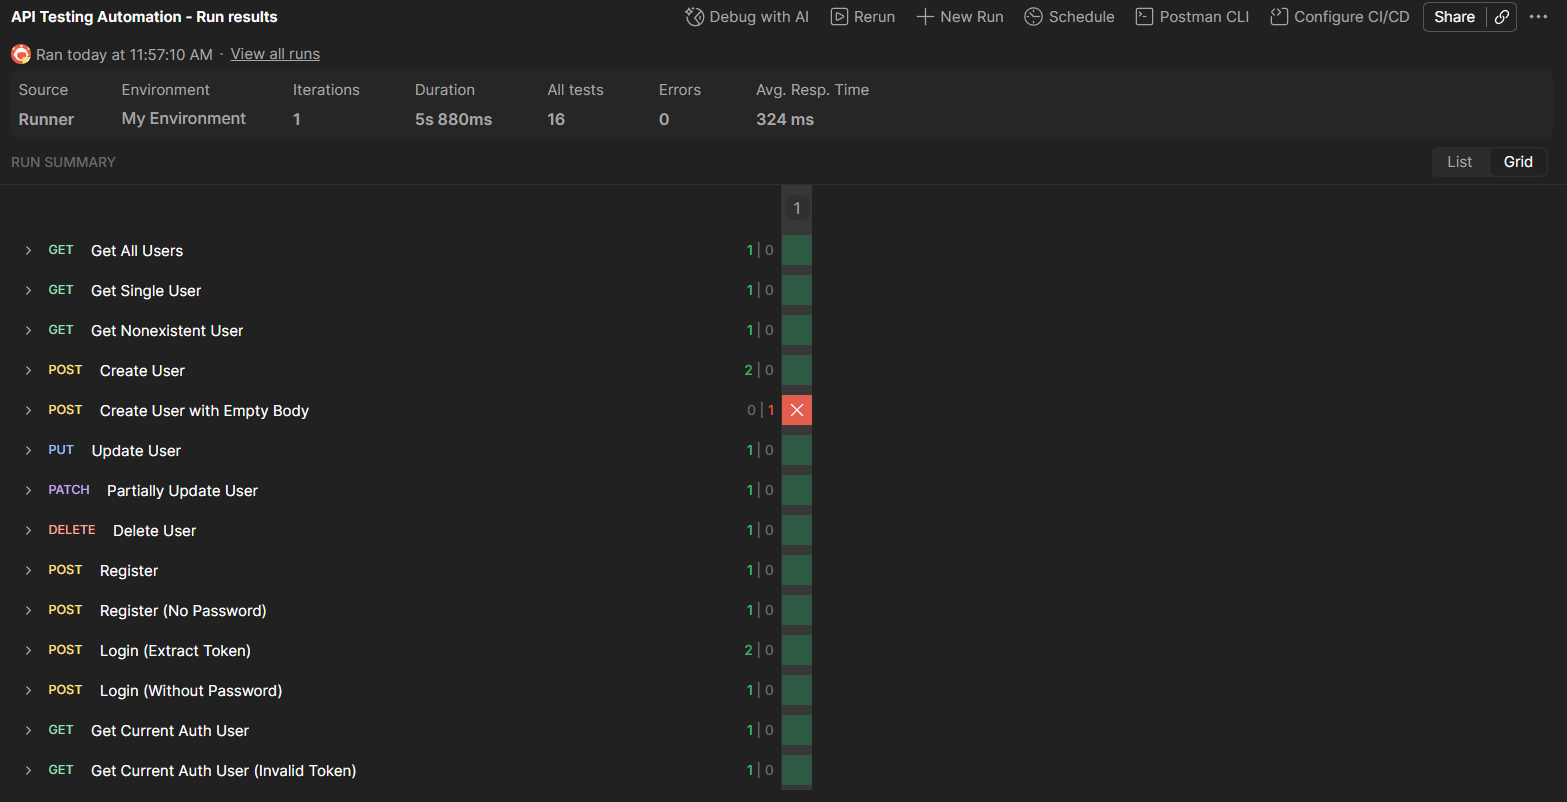
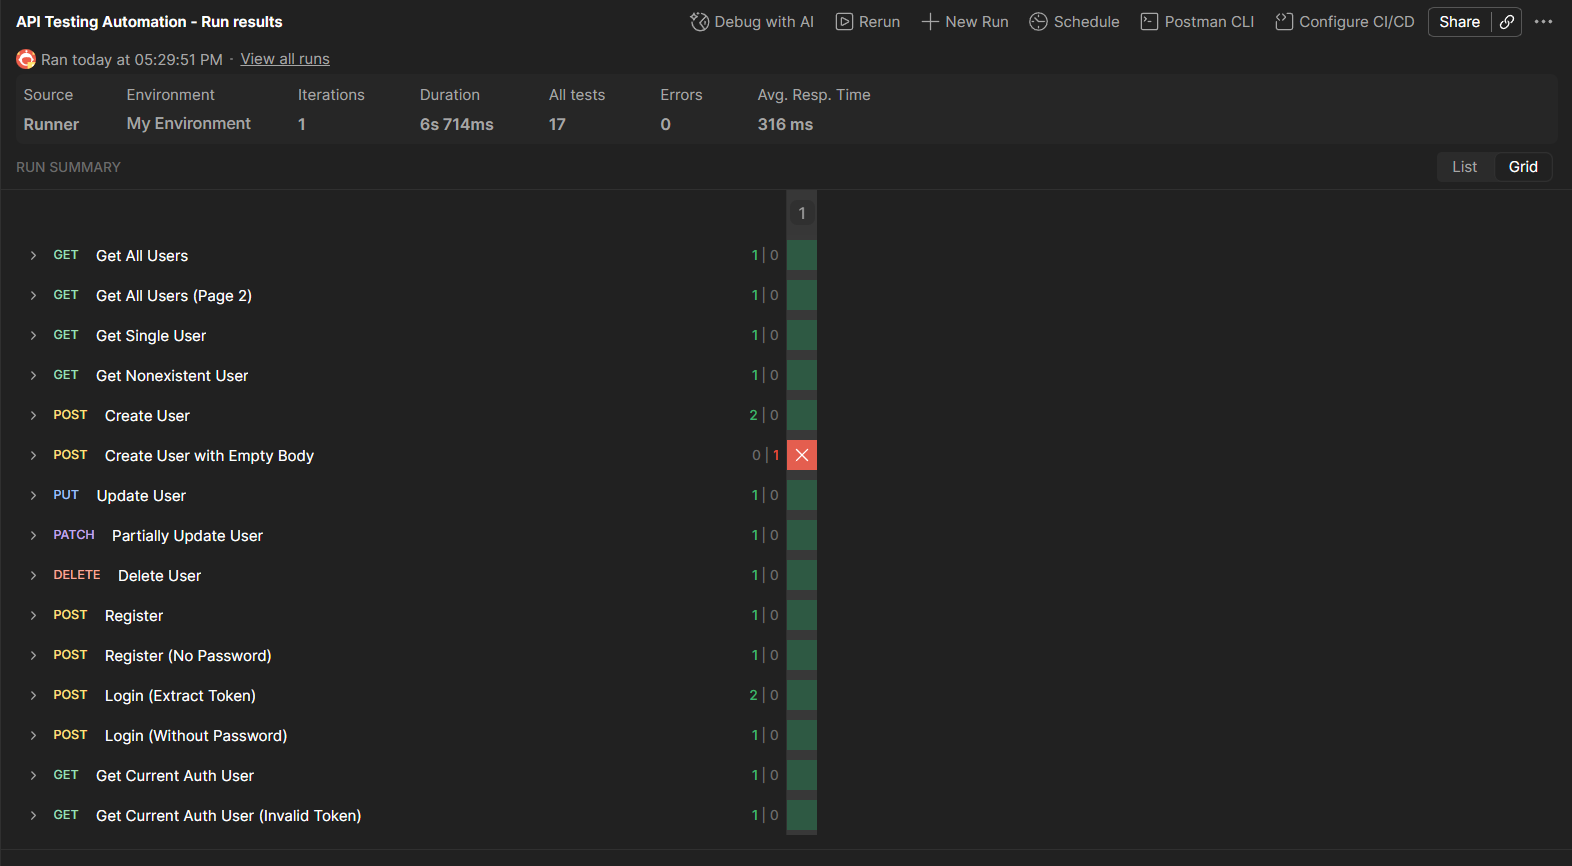
Add 1 test case

diff --git a/README.md b/README.md
@@ -28,20 +28,21 @@ This project demonstrates:
 
 | # | Request | Method | Endpoint | Service |
 | --- | --- | --- | --- | --- |
-| 1 | Get All Users (page 2) | GET | `/api/users?page=2` | ReqRes |
-| 2 | Get Single User | GET | `/api/users/2` | ReqRes |
-| 3 | Get Nonexistent User | GET | `/api/users/999` | ReqRes |
-| 4 | Create User | POST | `/api/users` | ReqRes |
-| 5 | Create User with Empty Body | POST | `/api/users` | ReqRes |
-| 6 | Update User | PUT | `/api/users/{{userId}}` | ReqRes |
-| 7 | Partially Update User | PATCH | `/api/users/{{userId}}` | ReqRes |
-| 8 | Delete User | DELETE | `/api/users/{{userId}}` | ReqRes |
-| 9 | Register | POST | `/api/register` | ReqRes |
-| 10 | Register Without Password | POST | `/api/register` | ReqRes |
-| 11 | Login and Extract Token | POST | `/auth/login` | DummyJSON |
-| 12 | Login Without Password | POST | `/auth/login` | DummyJSON |
-| 13 | Get Current Auth User | GET | `/auth/me` | DummyJSON |
-| 14 | Get Current Auth User with Invalid Token | GET | `/auth/me` | DummyJSON |
+| 1 | Get All Users | GET | `/api/users` | ReqRes |
+| 2 | Get All Users (page 2) | GET | `/api/users?page=2` | ReqRes |
+| 3 | Get Single User | GET | `/api/users/2` | ReqRes |
+| 4 | Get Nonexistent User | GET | `/api/users/999` | ReqRes |
+| 5 | Create User | POST | `/api/users` | ReqRes |
+| 6 | Create User with Empty Body | POST | `/api/users` | ReqRes |
+| 7 | Update User | PUT | `/api/users/{{userId}}` | ReqRes |
+| 8 | Partially Update User | PATCH | `/api/users/{{userId}}` | ReqRes |
+| 9 | Delete User | DELETE | `/api/users/{{userId}}` | ReqRes |
+| 10 | Register | POST | `/api/register` | ReqRes |
+| 11 | Register Without Password | POST | `/api/register` | ReqRes |
+| 12 | Login and Extract Token | POST | `/auth/login` | DummyJSON |
+| 13 | Login Without Password | POST | `/auth/login` | DummyJSON |
+| 14 | Get Current Auth User | GET | `/auth/me` | DummyJSON |
+| 15 | Get Current Auth User with Invalid Token | GET | `/auth/me` | DummyJSON |
 
 ## Setup and Execution
 
@@ -88,20 +89,20 @@ pm.environment.set("token", response.accessToken);
 
 ## Test Execution Results
 
-The recorded run executed **14 requests**, with **16 Postman assertions** overall.
+The recorded run executed **15 requests**, with **17 Postman assertions** overall.
 
 | Metric | Result |
 | --- | ---: |
-| API requests / documented test cases | 14 |
-| Requests with all assertions passing | 13 |
+| API requests / documented test cases | 15 |
+| Requests with all assertions passing | 14 |
 | Requests with a failing assertion | 1 |
-| Total assertions | 16 |
-| Passed assertions | 15 |
+| Total assertions | 17 |
+| Passed assertions | 16 |
 | Failed assertions | 1 |
-| Request-level pass rate | 92.9% |
+| Request-level pass rate | 94.1% |
 | Execution errors reported by runner | 0 |
-| Run duration | 5.88 seconds |
-| Average response time | 324 ms |
+| Run duration | 6 seconds |
+| Average response time | 316 ms |
 
 ![Postman Collection Runner test execution results](Test%20Execution%20Evidence.png)
 
